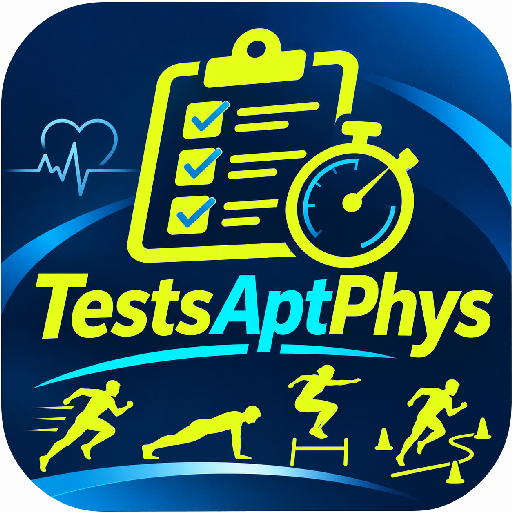
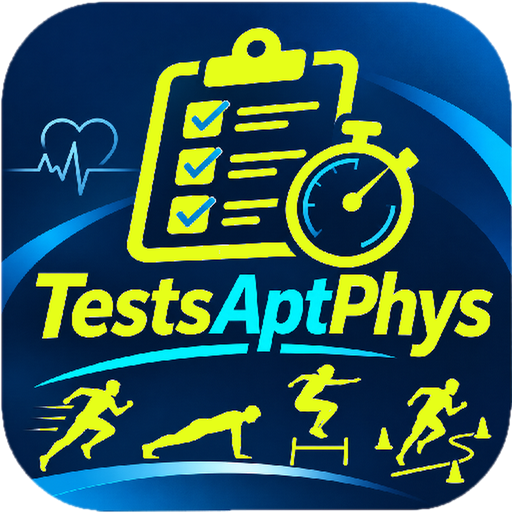
Icônes d'installation détourées (fond transparent) + maskable, manifeste corrigé
Claude-Session: https://claude.ai/code/session_01DWMzvDjuQqdn6i5FnQMur8

diff --git a/index.html b/index.html
@@ -2,7 +2,7 @@
 <meta name="viewport" content="width=device-width,initial-scale=1,viewport-fit=cover">
 <title>TestAptPhys – Tests d'aptitude physique</title>
 <link rel="manifest" href="manifest.webmanifest"><meta name="theme-color" content="#0b2a6f">
-<link rel="icon" href="icons/icon-192.png"><link rel="apple-touch-icon" href="icons/icon-192.png">
+<link rel="icon" href="icons/icon-192.png"><link rel="apple-touch-icon" href="icons/icon-maskable-192.png">
 <link rel="stylesheet" href="app.css">
 
 <style id="titre-moderne">/* Titre en casse mixte + logo mis en valeur, aux couleurs du logo */

diff --git a/version.js b/version.js
@@ -1,1 +1,1 @@
-const APP_VERSION="1.6.4"; // ← seul endroit à modifier pour changer la version
+const APP_VERSION="1.6.5"; // ← seul endroit à modifier pour changer la version
